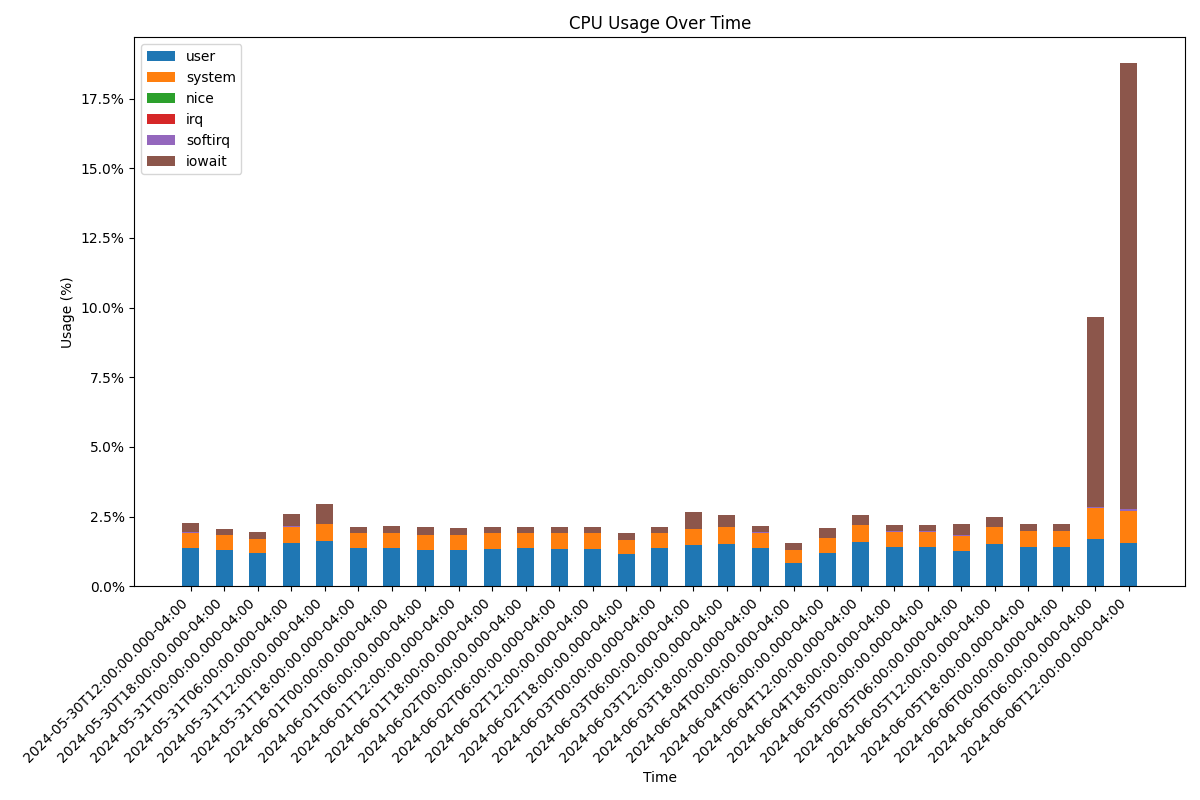
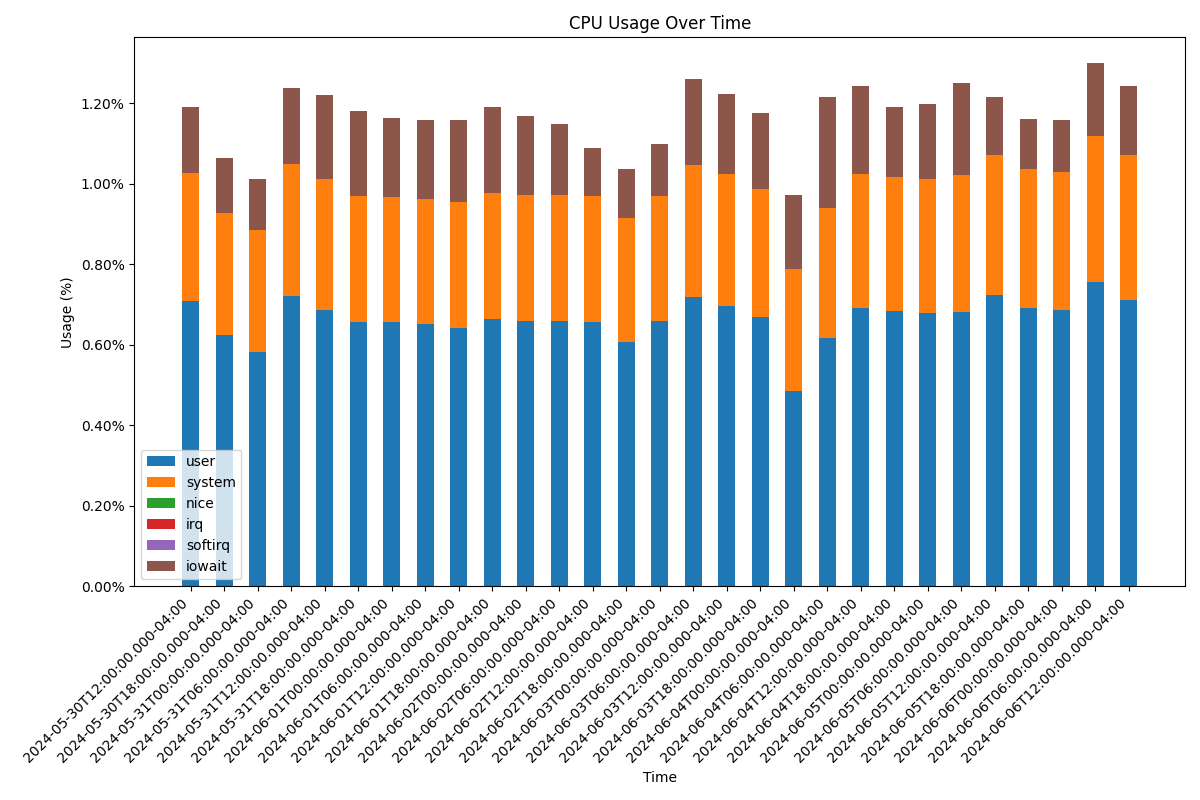
update readme

diff --git a/datavisualization/Docker.py b/datavisualization/Docker.py
@@ -9,10 +9,11 @@ import os
 load_dotenv()
 
 class DockerCPU(Datatemplate):  # Inheriting from Datatemplate
-    def __init__(self):
+    def __init__(self,host):
         super().__init__()  # Calling the constructor of the parent class
         self.json_name = "docker-cpu-usage.json"  # Overriding the json_name attribute
-        self.data = self.api.get_data(os.path.join(self.json_path, self.json_name)) # Using the parent's methods and attributes
+        self.host = host
+        self.data = self.api.get_data(os.path.join(self.json_path, self.json_name),self.host) # Using the parent's methods and attributes
 
 
     def prepare_plot(self):
@@ -47,7 +48,7 @@ class DockerCPU(Datatemplate):  # Inheriting from Datatemplate
         # Add labels and title
         self.ax.set_xlabel('Time')
         self.ax.set_ylabel('Usage (%)')
-        self.ax.set_title('CPU Usage Over Time')
+        self.ax.set_title('CPU Usage Over Time({})'.format(self.host))
         # Change y-axis to percentage
         self.ax.yaxis.set_major_formatter(PercentFormatter(1.0))
         # Adjust layout
@@ -65,6 +66,7 @@ class DockerCPU(Datatemplate):  # Inheriting from Datatemplate
             if not os.path.exists(output_dir):
                 os.makedirs(output_dir)
             # Save plot to the output directory
+            filename = 'cpu_usage_over_time_{}.png'.format(self.host)
             output_path = os.path.join(output_dir, filename)
             self.fig.savefig(output_path)
         else:

diff --git a/ELK_module/elasticsearch_api.py b/ELK_module/elasticsearch_api.py
@@ -17,7 +17,7 @@ class elasticsearch_api:
         )
 
 
-    def get_data(self,path):
+    def get_data(self,path,host = None):
         with open(path, 'r') as file:
             query = json.load(file)
         # Calculate timestamps for gte and lte
@@ -31,6 +31,9 @@ class elasticsearch_api:
         # Update the query with formatted timestamps
         query['query']['bool']['filter'][2]['range']['@timestamp']['gte'] = gte_timestamp
         query['query']['bool']['filter'][2]['range']['@timestamp']['lte'] = lte_timestamp
+
+        if host:
+            query['query']['bool']['filter'][0]['match_phrase']['host.name'] = host
 
         response = self.client.search(index="*", body=query)
 

diff --git a/README.md b/README.md
@@ -1,0 +1,3 @@
+# HIS-ELK-weekly-report
+
+this is python based auto equest ELK data and visualization project
